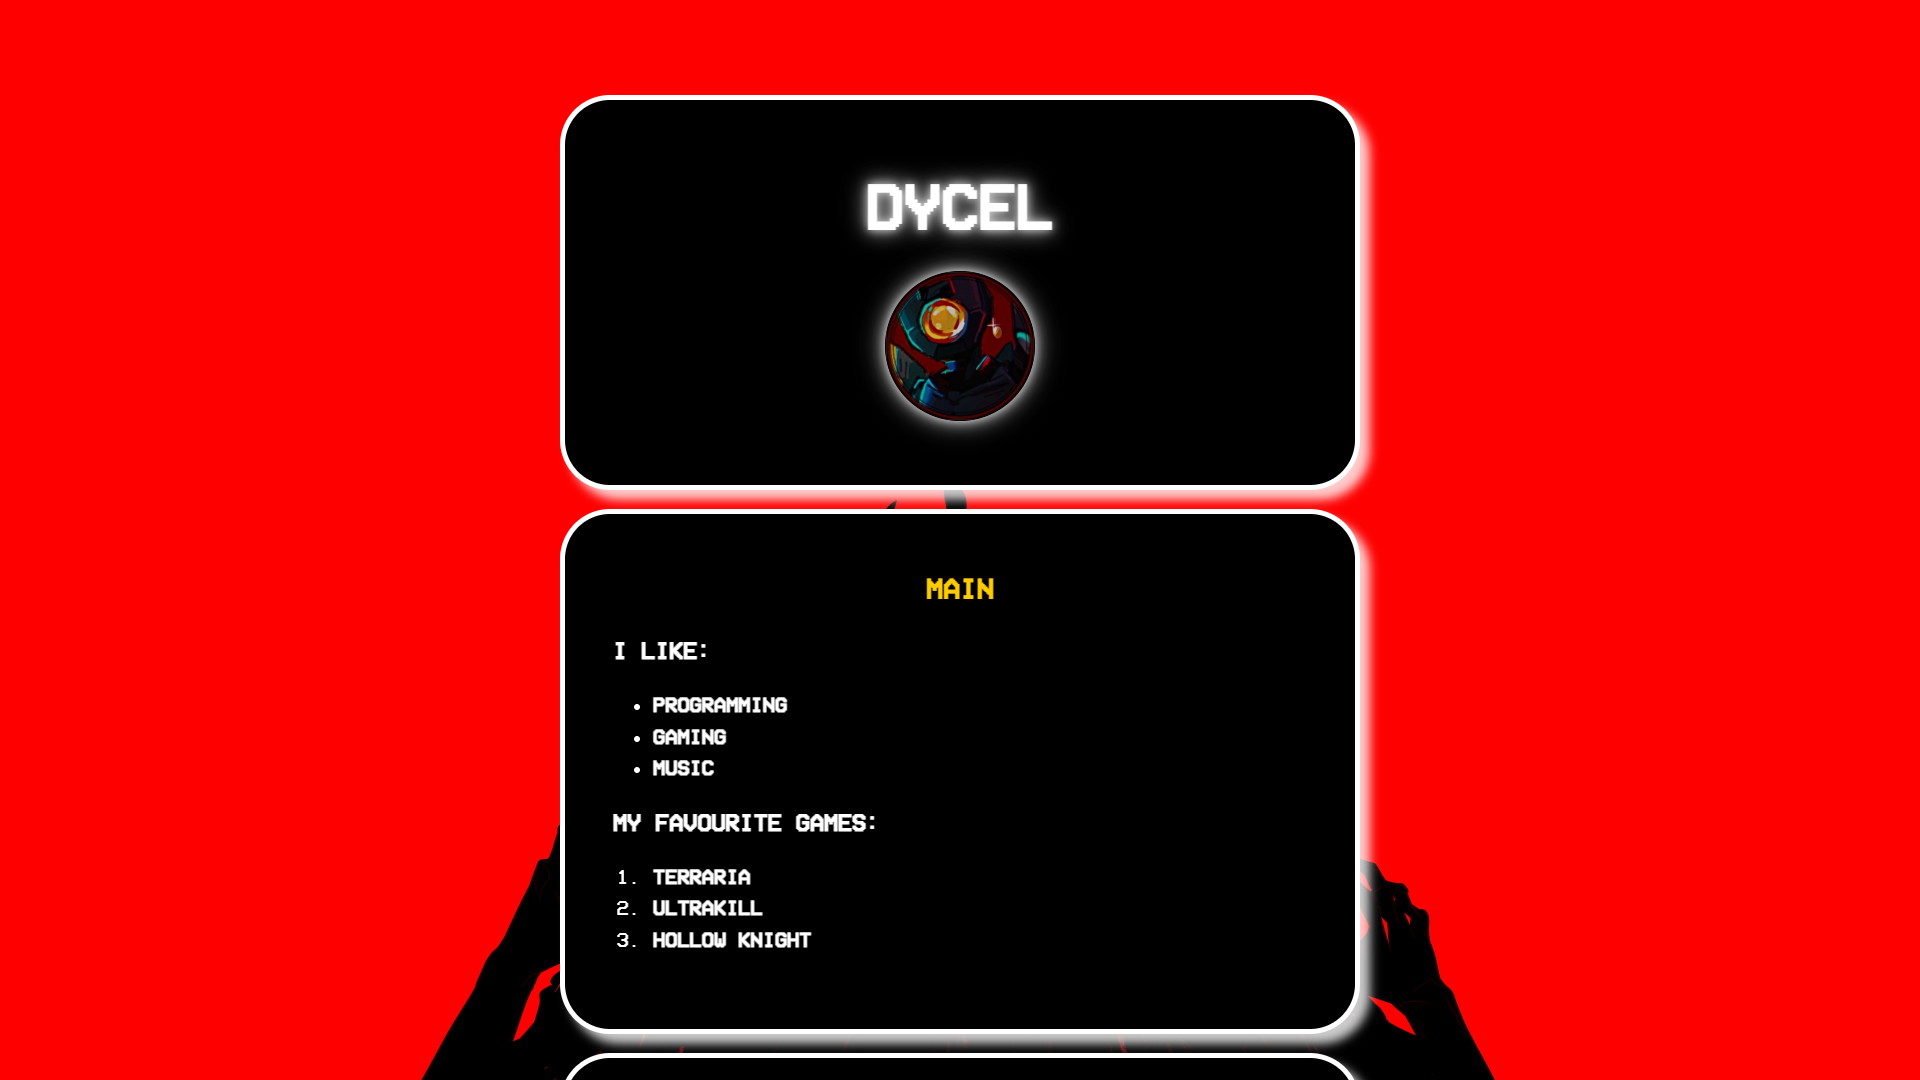
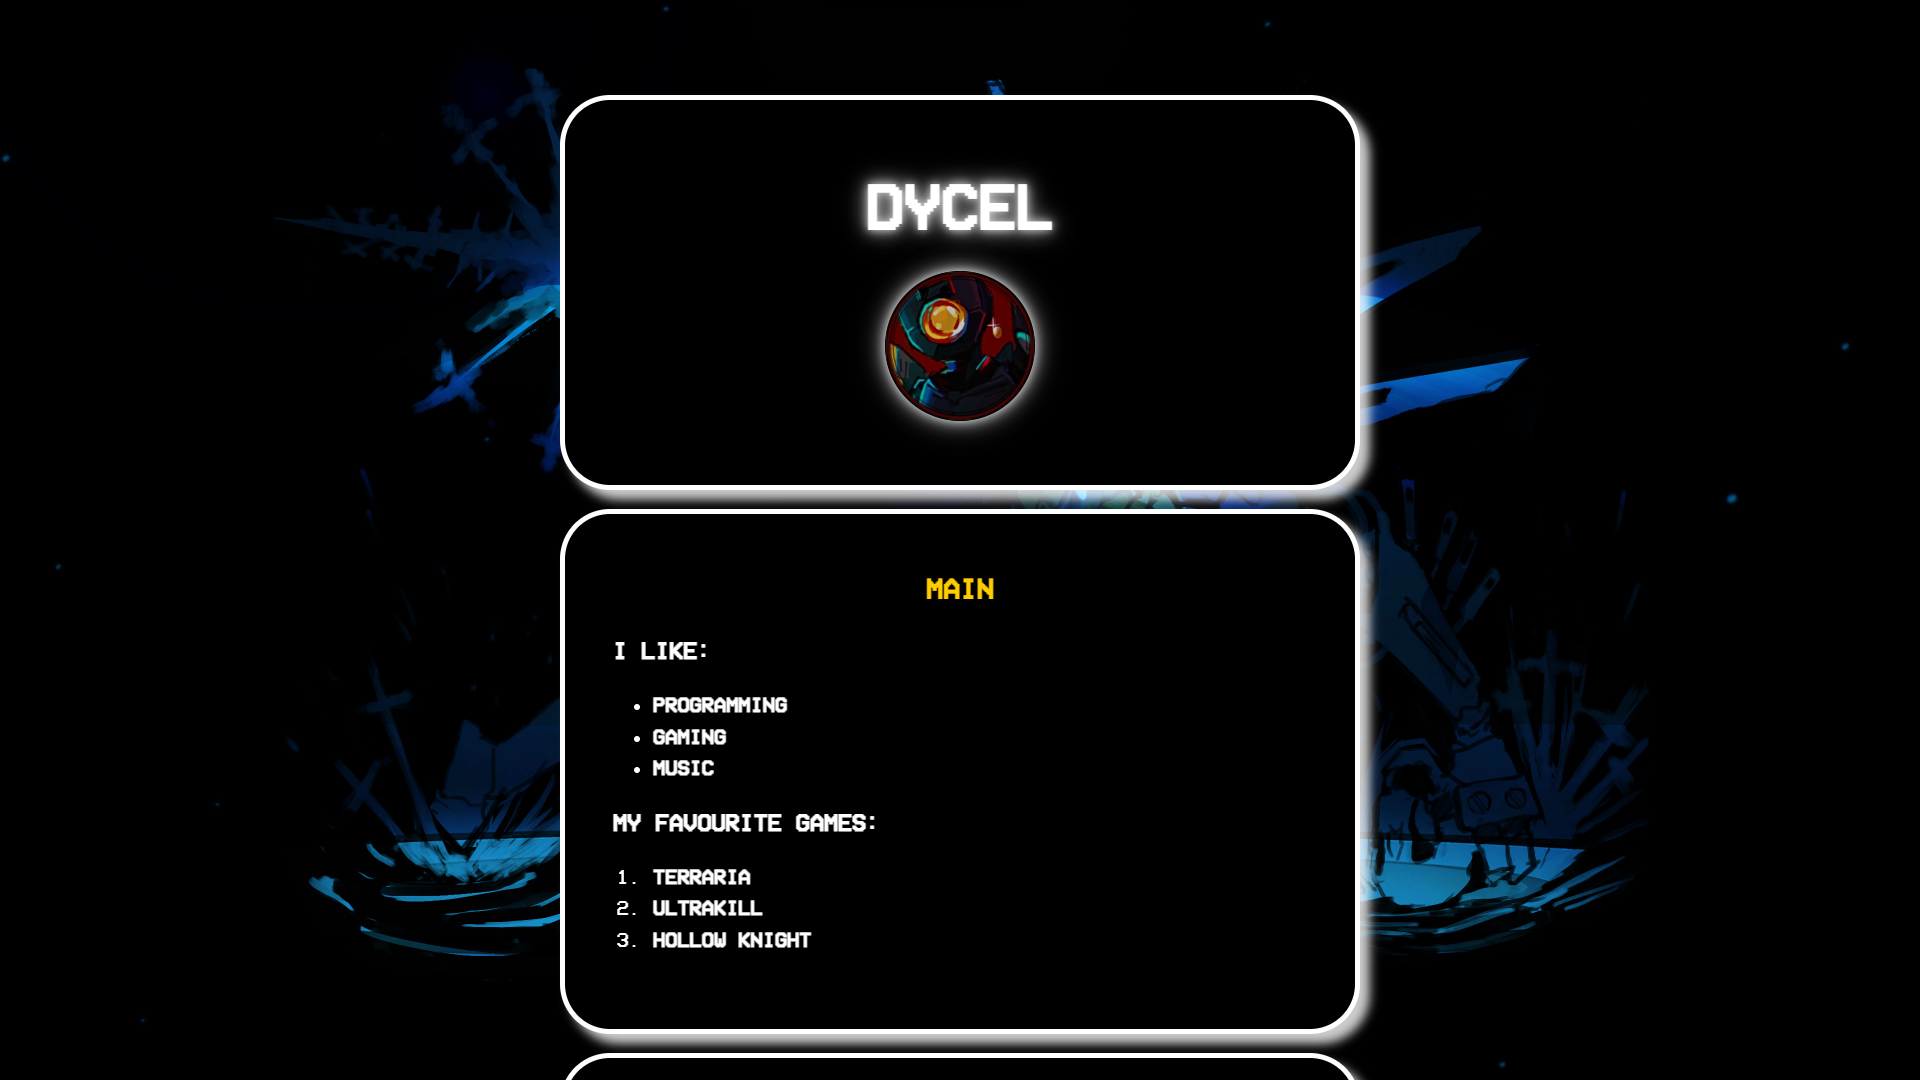
Background edit

diff --git a/style.css b/style.css
@@ -97,7 +97,7 @@ body::before {
     transform: scale(1);
     width: 100vw;
     z-index: 0;
-    background-image: url("Resources/Images/bg.png");
+    background-image: url("Resources/Images/bg.jpg");
     background-position: center;
     background-repeat: repeat;
     background-size: cover;
